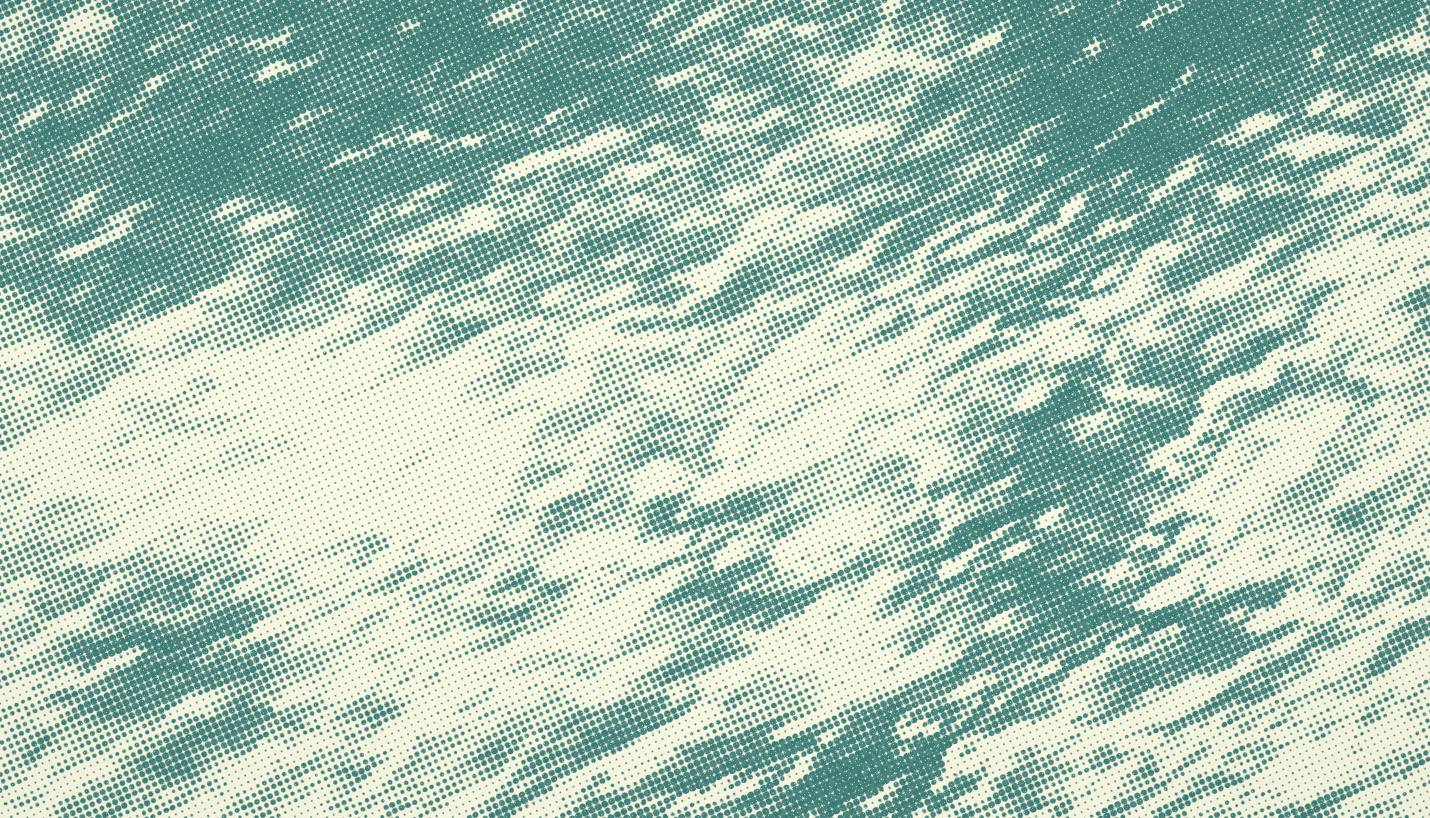
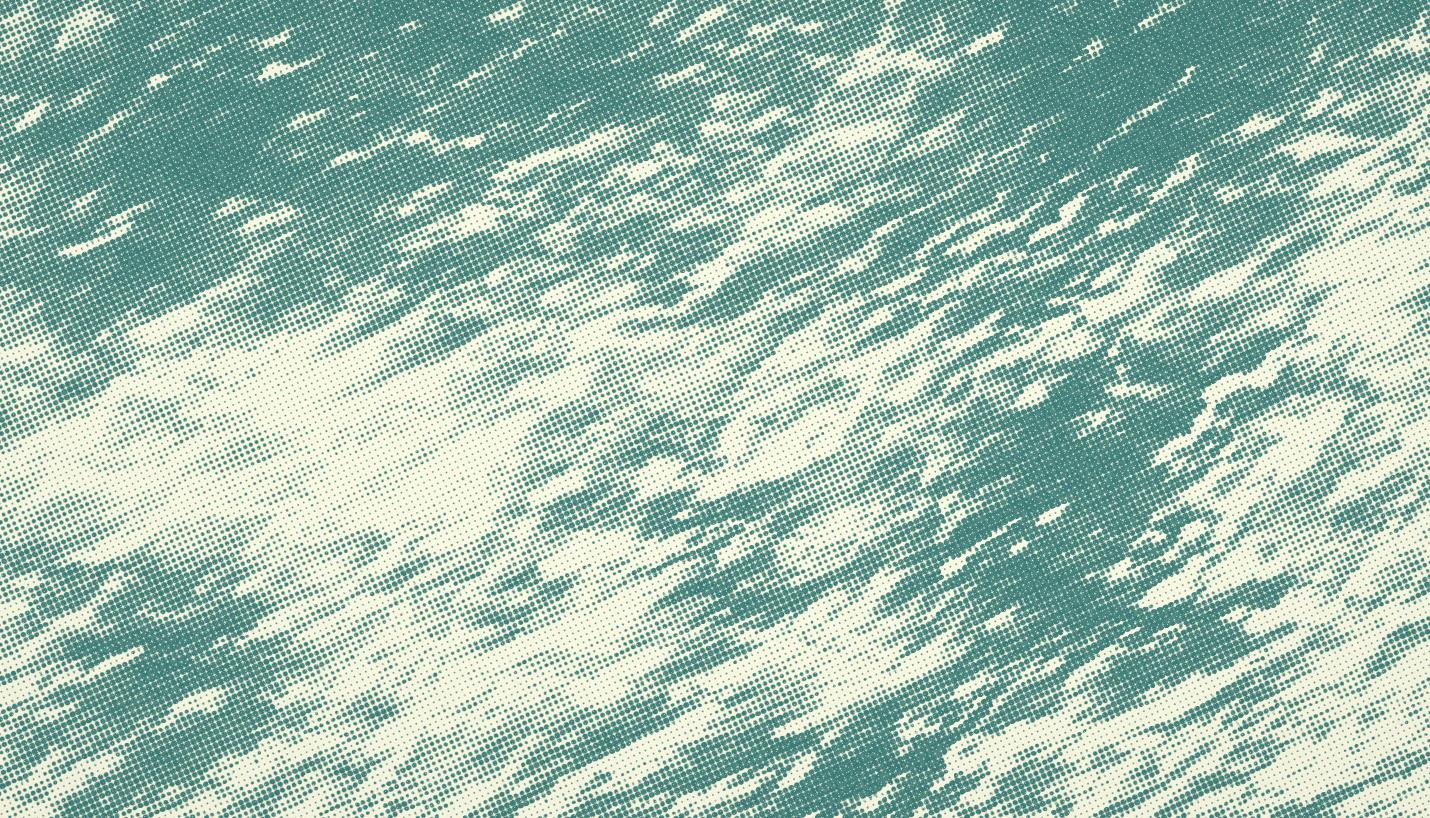
perf: sharpen water texture and halftone detail

diff --git a/themes/awake/source/js/app.js b/themes/awake/source/js/app.js
@@ -135,7 +135,7 @@
     '  float glint = s.g;',
     '  vec3 paper = vec3(0.992, 0.988, 0.902);',
     '  vec3 tealInk = vec3(0.176, 0.451, 0.439);',
-    '  float cell = 7.2 * uDpr;',
+    '  float cell = 6.2 * uDpr;',
     '  float ang = 0.42;',
     '  mat2 rot = mat2(cos(ang), -sin(ang), sin(ang), cos(ang));',
     '  vec2 hp = rot * (uv * uRes) / cell;',
@@ -196,8 +196,8 @@
   }
 
   var videoCanvas = document.createElement('canvas');
-  videoCanvas.width = 640;
-  videoCanvas.height = 360;
+  videoCanvas.width = 1280;
+  videoCanvas.height = 720;
   var videoCtx = videoCanvas.getContext('2d');
 
   var videoTex = gl.createTexture();
@@ -208,8 +208,8 @@
   gl.texParameteri(gl.TEXTURE_2D, gl.TEXTURE_WRAP_S, gl.CLAMP_TO_EDGE);
   gl.texParameteri(gl.TEXTURE_2D, gl.TEXTURE_WRAP_T, gl.CLAMP_TO_EDGE);
 
-  var toneW = 640;
-  var toneH = 360;
+  var toneW = 1280;
+  var toneH = 720;
   var toneTex = gl.createTexture();
   gl.bindTexture(gl.TEXTURE_2D, toneTex);
   gl.texImage2D(gl.TEXTURE_2D, 0, gl.RGBA8, toneW, toneH, 0, gl.RGBA, gl.UNSIGNED_BYTE, null);

diff --git a/themes/awake/source/js/lake-hero.js b/themes/awake/source/js/lake-hero.js
@@ -85,7 +85,7 @@
     '  float glint = s.g;',
     '  vec3 paper = vec3(0.992, 0.988, 0.902);',
     '  vec3 tealInk = vec3(0.176, 0.451, 0.439);',
-    '  float cell = 7.2 * uDpr;',
+    '  float cell = 6.2 * uDpr;',
     '  float ang = 0.42;',
     '  mat2 rot = mat2(cos(ang), -sin(ang), sin(ang), cos(ang));',
     '  vec2 hp = rot * (uv * uRes) / cell;',
@@ -146,8 +146,8 @@
   }
 
   var videoCanvas = document.createElement('canvas');
-  videoCanvas.width = 640;
-  videoCanvas.height = 360;
+  videoCanvas.width = 1280;
+  videoCanvas.height = 720;
   var videoCtx = videoCanvas.getContext('2d');
 
   var videoTex = gl.createTexture();
@@ -158,8 +158,8 @@
   gl.texParameteri(gl.TEXTURE_2D, gl.TEXTURE_WRAP_S, gl.CLAMP_TO_EDGE);
   gl.texParameteri(gl.TEXTURE_2D, gl.TEXTURE_WRAP_T, gl.CLAMP_TO_EDGE);
 
-  var toneW = 640;
-  var toneH = 360;
+  var toneW = 1280;
+  var toneH = 720;
   var toneTex = gl.createTexture();
   gl.bindTexture(gl.TEXTURE_2D, toneTex);
   gl.texImage2D(gl.TEXTURE_2D, 0, gl.RGBA8, toneW, toneH, 0, gl.RGBA, gl.UNSIGNED_BYTE, null);

diff --git a/PRODUCT.md b/PRODUCT.md
@@ -1,6 +1,6 @@
 # AwaKeSpace — 产品与设计文档
 
-> 最后更新：2026-10-26（v5.14.1）  
+> 最后更新：2026-10-27（v5.15.0）  
 > 状态：Living document（唯一事实来源）  
 > 详细视觉变更历史：`DESIGN.md`
 
@@ -147,6 +147,13 @@ Hexo 8.1.2
 - 决定：保留 `color-scheme: only light`，补充 `darkreader-lock` 元标签；不改变站点本身的浅色视觉。
 - 后果：支持该协议的工具会跳过本站；强制深色仍由用户浏览器最终决定。
 
+### D-007 水面纹理高清化
+
+- 日期：2026-10-27
+- 背景：原水面源纹理仅 480×270，tone map 640×360，放大到桌面后模糊，半调点看不出真实水纹细节。
+- 决定：使用 1280×720 原始水纹帧，tone map/纹理画布提升到 1280×720；半调网格由 7.2 调整为 6.2，首屏海报按新渲染重新生成。
+- 后果：水面细节和清晰度提升；纹理约 155KB；继续保留半调/程序波纹，不使用视频。
+
 ## 8. 当前状态
 
 - [x] 主题、音乐、ZATO、关于页面
@@ -156,6 +163,7 @@ Hexo 8.1.2
 - [x] 2026-10-26 颜色提亮与字标方案
 - [x] 纯字标部署到 Cloudflare Pages（v5.14.0）
 - [x] 补充浅色模式元标签（v5.14.1）
+- [x] 水面纹理/网点高清化（v5.15.0）
 - [x] 删除 Vercel 项目（迁移最后一步）
 - [ ] 将 GitHub 与 Cloudflare Pages 自动部署接通（可选）
 - [ ] 补齐专辑第 6–20 首音频
